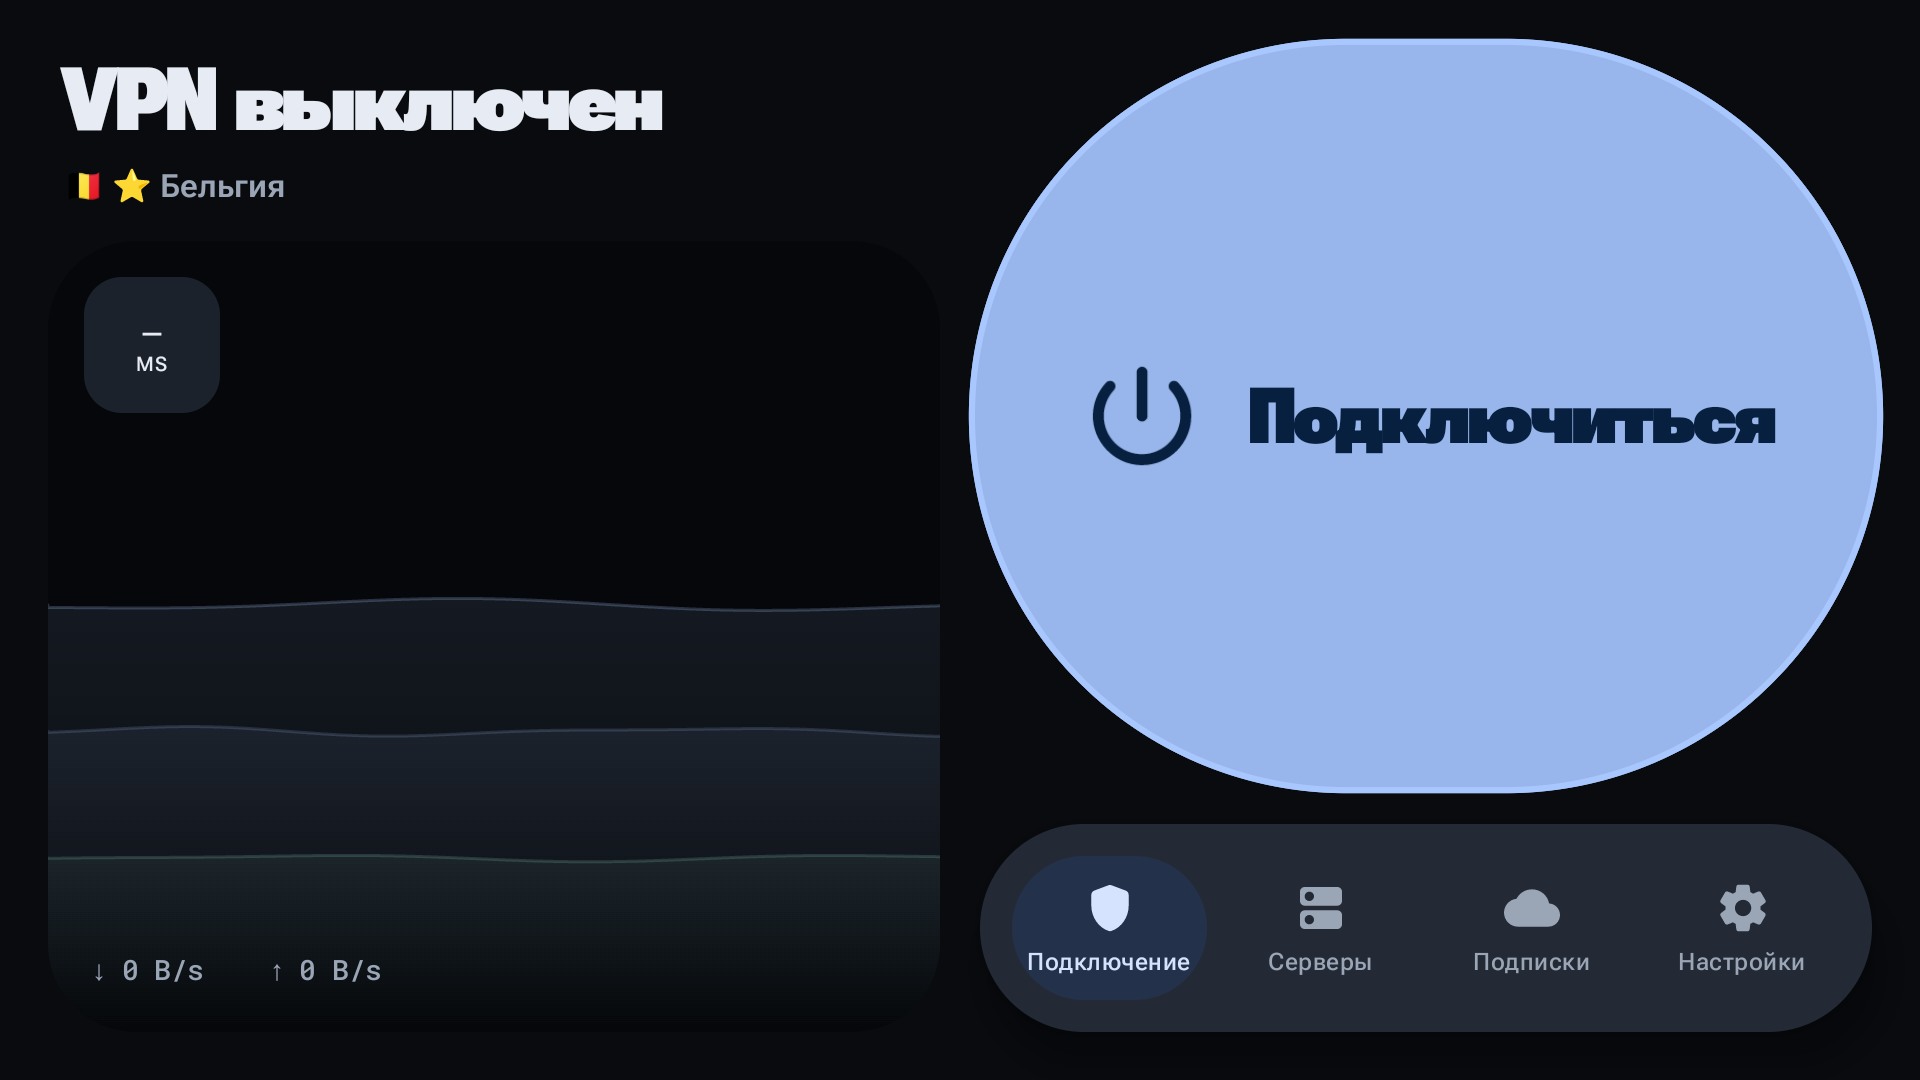
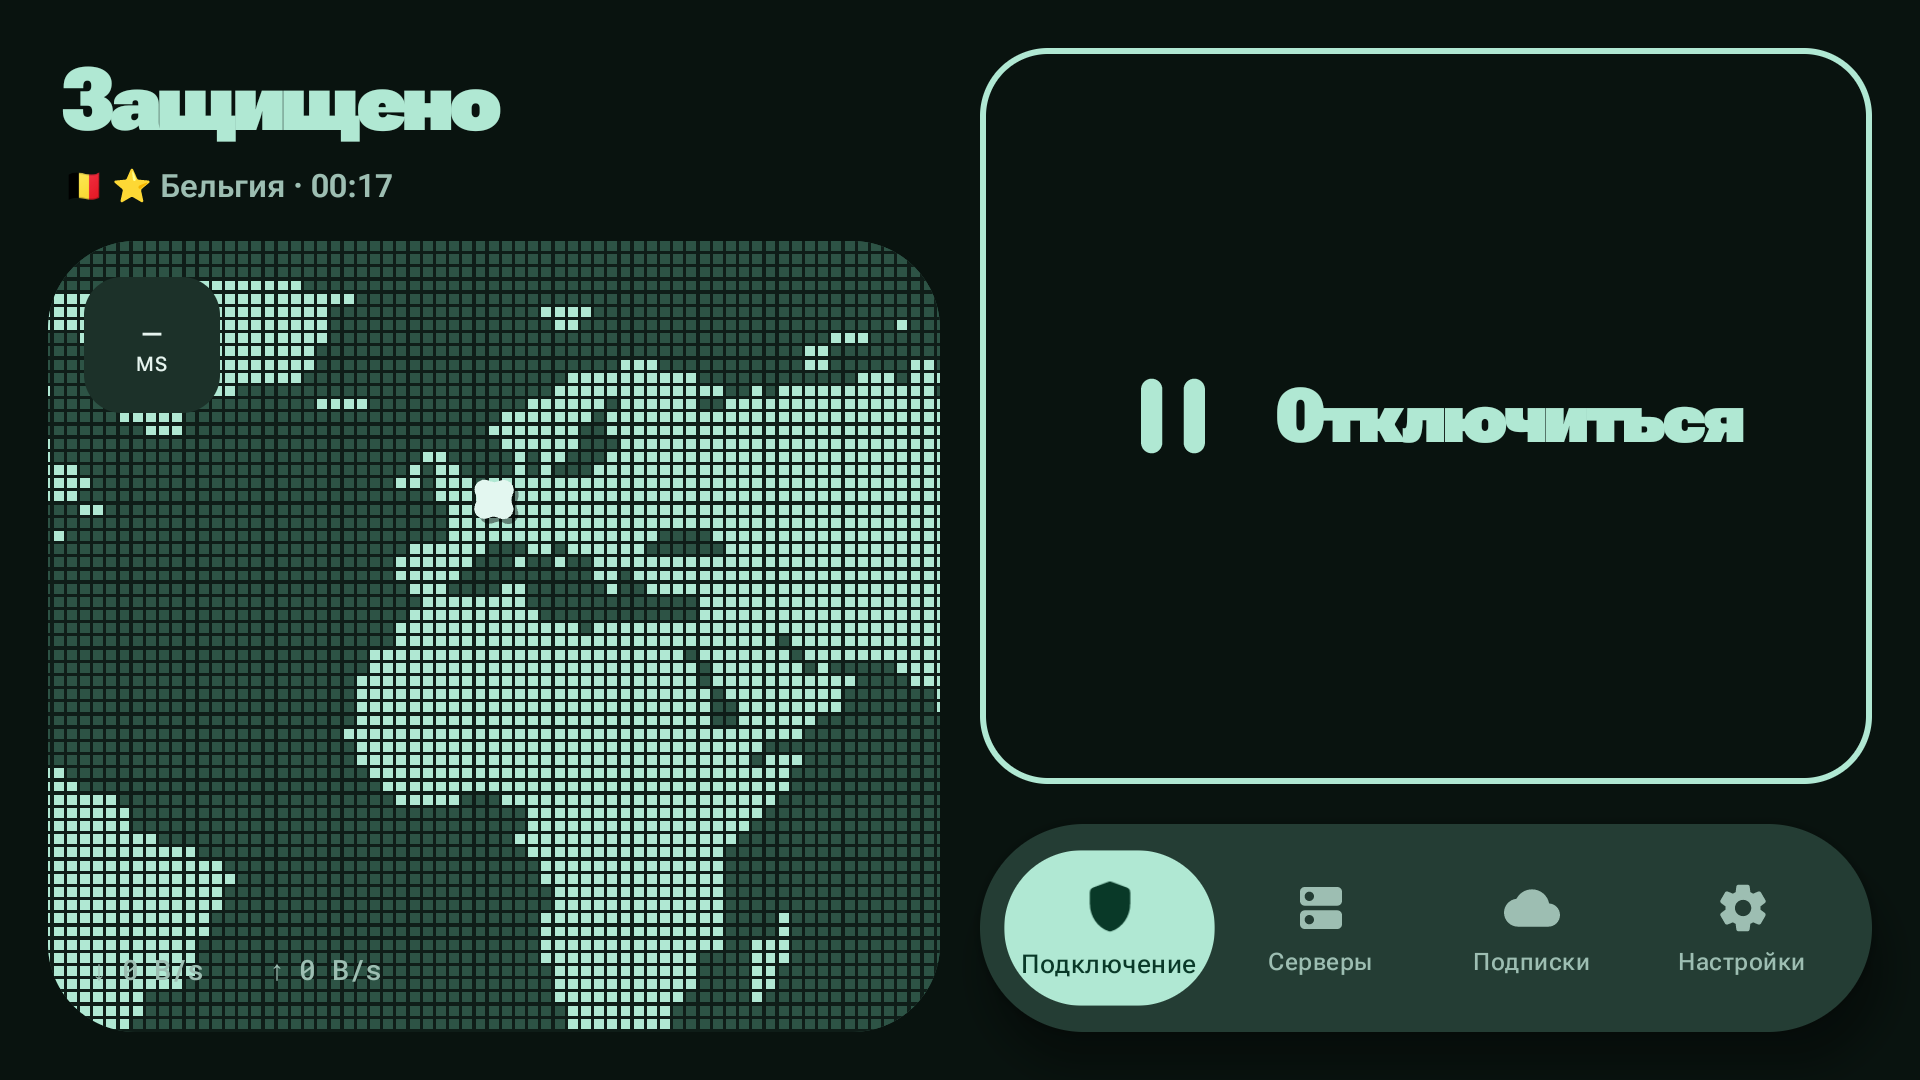
Скриншоты пульта и привязки телевизора в описании проекта
Телевизионные сняты заново: они были от 2.0.2, без палитр и с прежним
маркером на планете.

diff --git a/README.en.md b/README.en.md
@@ -30,6 +30,14 @@ desktop, and subscriptions refresh as soon as the app opens.
 | <img src="docs/screenshots/tv-connect.png" width="380"> | <img src="docs/screenshots/tv-servers.png" width="380"> |
 | <img src="docs/screenshots/tv-pairing.png" width="380"> | <img src="docs/screenshots/tv-settings.png" width="380"> |
 
+**The remote.** The code lives on the television under Settings → Phone remote, and is scanned on
+the phone through Subscriptions → Add → Scan. Once: from then on the phone finds the television on
+the network by itself, and a remote button appears on the tunnel screen.
+
+| | |
+|:-:|:-:|
+| <img src="docs/screenshots/tv-remote-pairing.png" width="380"> | <img src="docs/screenshots/remote-pairing.png" width="185"> |
+
 ## What it can do
 
 **You can add almost anything.** `vless://`, `vmess://`, `trojan://`, `ss://`, `hysteria2://`,
